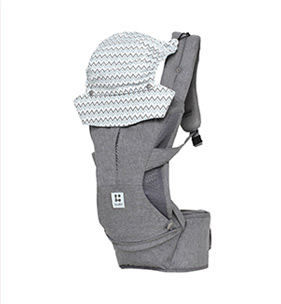
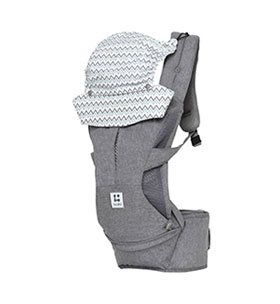
changed merch1 image, added shadows to merch,

diff --git a/index.html b/index.html
@@ -21,9 +21,7 @@
                                         <td rowspan="2">
                                             <a href="#"><img src="img/logo.png" width="209" height="72" alt="Parklon - Игровые коврики для выших малышей" style="display: block;"></a>
                                         </td>
-                                        <td rowspan="2" width="120">
-                                            &nbsp;
-                                        </td>
+                                        <td rowspan="2" width="120">&nbsp;</td>
                                         <td align="center">
                                             <a style="color:#ffffff;font-family:Arial, Helvetica, sans-serif; font-size:24px; line-height: 36px; text-decoration: none;" href="tel:88043331432" target="_blank">8 (804) 333-14-32</a> 
                                         </td>
@@ -103,72 +101,72 @@
                                 <table width="100%" border="0" style="border-collapse: collapse;" cellpadding="0" cellspacing="0">
                                     <tr>
                                         <td width="280">
-                                            <table bgcolor="#ffffff" border="0" width="100%" style="border-collapse: collapse;" cellpadding="0" cellspacing="0">
-                                                <tr>
-                                                    <td>
-                                                        <img src="img/merch1.jpg" width="280" alt="Рюкзак-переноска серый" style="display:block;">
-                                                    </td>
-                                                </tr>
-                                                <tr>
-                                                    <td align="center" valign="top">
-                                                        <span style="font-family: Arial, Helvetica, sans-serif; color:#000000; font-size:14px; line-height: 24px; font-weight: 700;">
-                                                            Рюкзак-переноска Todbi Hidden 360 Special Edition <br>
-                                                            <span style="font-weight: 400; text-transform: uppercase;">Серый</span>
-                                                        </span>
-                                                    </td>
-                                                </tr>
-                                                <tr>
-                                                    <td align="center" style="padding: 10px 0 25px 0;">
-                                                        <div><!--[if mso]>
-                                                            <v:roundrect xmlns:v="urn:schemas-microsoft-com:vml" xmlns:w="urn:schemas-microsoft-com:office:word" href="#" style="height:37px;v-text-anchor:middle;width:195px;" arcsize="95%" strokecolor="#e6e6e8" fillcolor="#b95982">
-                                                              <w:anchorlock/>
-                                                              <center style="color:#ffffff;font-family:sans-serif;font-size:13px;font-weight:bold;">ВЫБРАТЬ РЮКЗАК</center>
-                                                            </v:roundrect>
-                                                          <![endif]--><a href="#"
-                                                          style="background-color:#b95982;border:1px solid #e6e6e8;border-radius:35px;color:#ffffff;display:inline-block;font-family:sans-serif;font-size:13px;font-weight:bold;line-height:37px;text-align:center;text-decoration:none;width:195px;-webkit-text-size-adjust:none;mso-hide:all;" target="_blank">ВЫБРАТЬ РЮКЗАК</a></div>
-                                                    </td>
-                                                </tr>
-                                            </table>
+                                            <div style="box-shadow: #c2c2c2 0px 3px 3px;">
+                                                <table bgcolor="#ffffff" border="0" width="100%" style="border-collapse: collapse;" cellpadding="0" cellspacing="0">
+                                                    <tr>
+                                                        <td>
+                                                            <img src="img/merch1.jpg" width="280" alt="Рюкзак-переноска серый" style="display:block;">
+                                                        </td>
+                                                    </tr>
+                                                    <tr>
+                                                        <td align="center" valign="top">
+                                                            <span style="font-family: Arial, Helvetica, sans-serif; color:#000000; font-size:14px; line-height: 24px; font-weight: 700;">
+                                                                Рюкзак-переноска Todbi Hidden 360 Special Edition <br>
+                                                                <span style="font-weight: 400; text-transform: uppercase;">Серый</span>
+                                                            </span>
+                                                        </td>
+                                                    </tr>
+                                                    <tr>
+                                                        <td align="center" style="padding: 10px 0 25px 0;">
+                                                            <div><!--[if mso]>
+                                                                <v:roundrect xmlns:v="urn:schemas-microsoft-com:vml" xmlns:w="urn:schemas-microsoft-com:office:word" href="#" style="height:37px;v-text-anchor:middle;width:195px;" arcsize="95%" strokecolor="#e6e6e8" fillcolor="#b95982">
+                                                                <w:anchorlock/>
+                                                                <center style="color:#ffffff;font-family:sans-serif;font-size:13px;font-weight:bold;">ВЫБРАТЬ РЮКЗАК</center>
+                                                                </v:roundrect>
+                                                            <![endif]--><a href="#"
+                                                            style="background-color:#b95982;border:1px solid #e6e6e8;border-radius:35px;color:#ffffff;display:inline-block;font-family:sans-serif;font-size:13px;font-weight:bold;line-height:37px;text-align:center;text-decoration:none;width:195px;-webkit-text-size-adjust:none;mso-hide:all;" target="_blank">ВЫБРАТЬ РЮКЗАК</a></div>
+                                                        </td>
+                                                    </tr>
+                                                </table>
+                                            </div>
                                         </td>
-                                        <td width="40px">
-                                            &nbsp;
-                                        </td>
+                                        <td width="40px">&nbsp;</td>
                                         <td width="280">
-                                            <table bgcolor="#ffffff" border="0" width="100%" style="border-collapse: collapse;" cellpadding="0" cellspacing="0">
-                                                <tr>
-                                                    <td>
-                                                        <img src="img/merch2.jpg" width="280" alt="Рюкзак-переноска серый" style="display:block;">
-                                                    </td>
-                                                </tr>
-                                                <tr>
-                                                    <td align="center" valign="top">
-                                                        <span style="font-family: Arial, Helvetica, sans-serif; color:#000000; font-size:14px; line-height: 24px; font-weight: 700;">
-                                                            Рюкзак-переноска Todbi Hidden 360 Special Edition <br>
-                                                            <span style="font-weight: 400; text-transform: uppercase;">Графит</span>
-                                                        </span>
-                                                    </td>
-                                                </tr>
-                                                <tr>
-                                                    <td align="center" style="padding: 10px 0 25px 0;">
-                                                        <div><!--[if mso]>
-                                                            <v:roundrect xmlns:v="urn:schemas-microsoft-com:vml" xmlns:w="urn:schemas-microsoft-com:office:word" href="#" style="height:37px;v-text-anchor:middle;width:195px;" arcsize="95%" strokecolor="#e6e6e8" fillcolor="#b95982">
-                                                              <w:anchorlock/>
-                                                              <center style="color:#ffffff;font-family:sans-serif;font-size:13px;font-weight:bold;">ВЫБРАТЬ РЮКЗАК</center>
-                                                            </v:roundrect>
-                                                          <![endif]--><a href="#"
-                                                          style="background-color:#b95982;border:1px solid #e6e6e8;border-radius:35px;color:#ffffff;display:inline-block;font-family:sans-serif;font-size:13px;font-weight:bold;line-height:37px;text-align:center;text-decoration:none;width:195px;-webkit-text-size-adjust:none;mso-hide:all;" target="_blank">ВЫБРАТЬ РЮКЗАК</a></div>
-                                                    </td>
-                                                </tr>
-                                            </table>
+                                            <div style="box-shadow: #c2c2c2 0px 3px 3px;">
+                                                <table bgcolor="#ffffff" border="0" width="100%" style="border-collapse: collapse;" cellpadding="0" cellspacing="0">
+                                                    <tr>
+                                                        <td>
+                                                            <img src="img/merch2.jpg" width="280" alt="Рюкзак-переноска серый" style="display:block;">
+                                                        </td>
+                                                    </tr>
+                                                    <tr>
+                                                        <td align="center" valign="top">
+                                                            <span style="font-family: Arial, Helvetica, sans-serif; color:#000000; font-size:14px; line-height: 24px; font-weight: 700;">
+                                                                Рюкзак-переноска Todbi Hidden 360 Special Edition <br>
+                                                                <span style="font-weight: 400; text-transform: uppercase;">Графит</span>
+                                                            </span>
+                                                        </td>
+                                                    </tr>
+                                                    <tr>
+                                                        <td align="center" style="padding: 10px 0 25px 0;">
+                                                            <div><!--[if mso]>
+                                                                <v:roundrect xmlns:v="urn:schemas-microsoft-com:vml" xmlns:w="urn:schemas-microsoft-com:office:word" href="#" style="height:37px;v-text-anchor:middle;width:195px;" arcsize="95%" strokecolor="#e6e6e8" fillcolor="#b95982">
+                                                                <w:anchorlock/>
+                                                                <center style="color:#ffffff;font-family:sans-serif;font-size:13px;font-weight:bold;">ВЫБРАТЬ РЮКЗАК</center>
+                                                                </v:roundrect>
+                                                            <![endif]--><a href="#"
+                                                            style="background-color:#b95982;border:1px solid #e6e6e8;border-radius:35px;color:#ffffff;display:inline-block;font-family:sans-serif;font-size:13px;font-weight:bold;line-height:37px;text-align:center;text-decoration:none;width:195px;-webkit-text-size-adjust:none;mso-hide:all;" target="_blank">ВЫБРАТЬ РЮКЗАК</a></div>
+                                                        </td>
+                                                    </tr>
+                                                </table>
+                                            </div>
                                         </td>
                                     </tr>
                                 </table>
                             </td>
                         </tr>
                         <tr>
-                            <td height="40">
-                                &nbsp;
-                            </td>
+                            <td height="40">&nbsp;</td>
                         </tr>
                         <tr>
                             <td>
@@ -208,7 +206,7 @@
                         </tr>
                         <tr>
                             <td align="center" style="border:0; padding: 30px 0 15px 0">
-                                <span style="font-family: Arial, Helvetica, sans-serif; color:#000000; font-size:14px; line-height:24px">Больше лайфхаков для родителей - в наших аккаунтах. Подпишитесь!</span>
+                                <span style="font-family: Arial, Helvetica, sans-serif; color:#000000; font-size:14px; line-height:24px">Больше лайфхаков для&nbsp;родителей - в&nbsp;наших аккаунтах. Подпишитесь!</span>
                             </td>
                         </tr>
                         <tr>
@@ -228,7 +226,7 @@
                         </tr>
                         <tr>
                             <td align="center" style="border:0; padding:0 0 30px 0" valign="top">
-                                <span style="font-family: Arial, Helvetica, sans-serif; color:#8d8d8d; font-size:14px;">Если вы больше не хотите получать от нас письма с информацией о скидках, акциях, новых коллекциях и образах, нажмите <a href="#" style="color:#2d2d2d;" target="_blank">здесь</a> и мы не будем высылать вам письма.</span>
+                                <span style="font-family: Arial, Helvetica, sans-serif; color:#8d8d8d; font-size:14px;">Если вы&nbsp;больше не&nbsp;хотите получать от&nbsp;нас письма с&nbsp;информацией о скидках, акциях, новых коллекциях и&nbsp;образах, нажмите <a href="#" style="color:#2d2d2d;" target="_blank">здесь</a> и мы&nbsp;не будем высылать вам&nbsp;письма.</span>
                             </td>
                         </tr>
                     </tbody>
